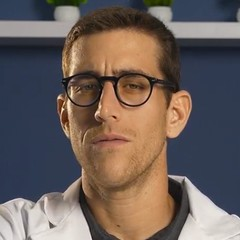
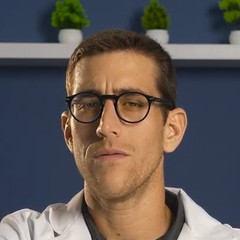
Demo: sin pilares ni separador, avatares ajustados

diff --git a/public/neurociencia/prueba-formato.html b/public/neurociencia/prueba-formato.html
@@ -108,8 +108,9 @@ p{margin:0}
 .firma b{display:block;font:700 19px/1.1 "Poppins";letter-spacing:-.02em;color:#fff}
 .firma span{display:block;margin-top:4px;font:600 10px/1.2 "Poppins";letter-spacing:.14em;text-transform:uppercase;color:var(--cyan)}
 .confianza{display:flex;align-items:center;gap:12px}
+.caras{flex:none}
 .caras{display:flex}
-.caras img{width:40px;height:40px;border-radius:50%;object-fit:cover;object-position:50% 40%;border:2px solid #fff;box-shadow:0 2px 6px rgba(10,37,64,.2)}
+.caras img{width:40px;height:40px;border-radius:50%;object-fit:cover;object-position:50% 50%;border:2px solid #fff;box-shadow:0 2px 6px rgba(10,37,64,.2)}
 .caras img+img{margin-left:-12px}
 .confianza p{font-size:13.5px;line-height:1.35;color:var(--suave)}
 .confianza p b{color:var(--navy);font-weight:600}
@@ -319,7 +320,7 @@ p{margin:0}
 .equipo{display:grid;gap:18px;margin-top:30px}
 .persona{background:#fff;border:1px solid var(--borde);border-radius:20px;overflow:hidden;box-shadow:var(--sombra)}
 .persona-cab{display:grid;grid-template-columns:96px 1fr;gap:16px;align-items:center;padding:18px 18px 0}
-.persona-cab img{width:96px;height:96px;border-radius:16px;object-fit:cover;object-position:50% 40%}
+.persona-cab img{width:96px;height:96px;border-radius:16px;object-fit:cover;object-position:50% 50%}
 .persona-cab h3{font-size:19px;margin-top:6px}
 .persona-txt{padding:14px 18px 20px;display:grid;gap:10px;font-size:14.5px;line-height:1.6;color:var(--suave)}
 .historia{margin-top:26px;background:var(--navy);color:#fff;border-radius:22px;overflow:hidden}
@@ -685,15 +686,9 @@ p{margin:0}
         <p>Lo que nadie te explicó es que <b>tu cerebro no está hecho</b> para cambiar radicalmente tus hábitos <span>solo a fuerza de voluntad.</span></p>
       </div>
     </div>
-    <div class="pilares">
-      <div class="pilar"><span><i class="ph-light ph-brain"></i></span><b>Neurociencia</b></div>
-      <div class="pilar"><span><i class="ph-light ph-barbell"></i></span><b>Ciencia del deporte</b></div>
-      <div class="pilar"><span><i class="ph-light ph-bowl-food"></i></span><b>Nutrición</b></div>
-    </div>
   </div>
 </section>
 
-<div class="separador borde" aria-hidden="true"><span><img src="assets/isotipo-ecc.png" alt=""></span></div>
 <!-- ============ MECANISMO + NÚMEROS GRANDES ============ -->
 <section class="sec fondo-celeste" style="padding-top:56px">
   <div class="envase">
